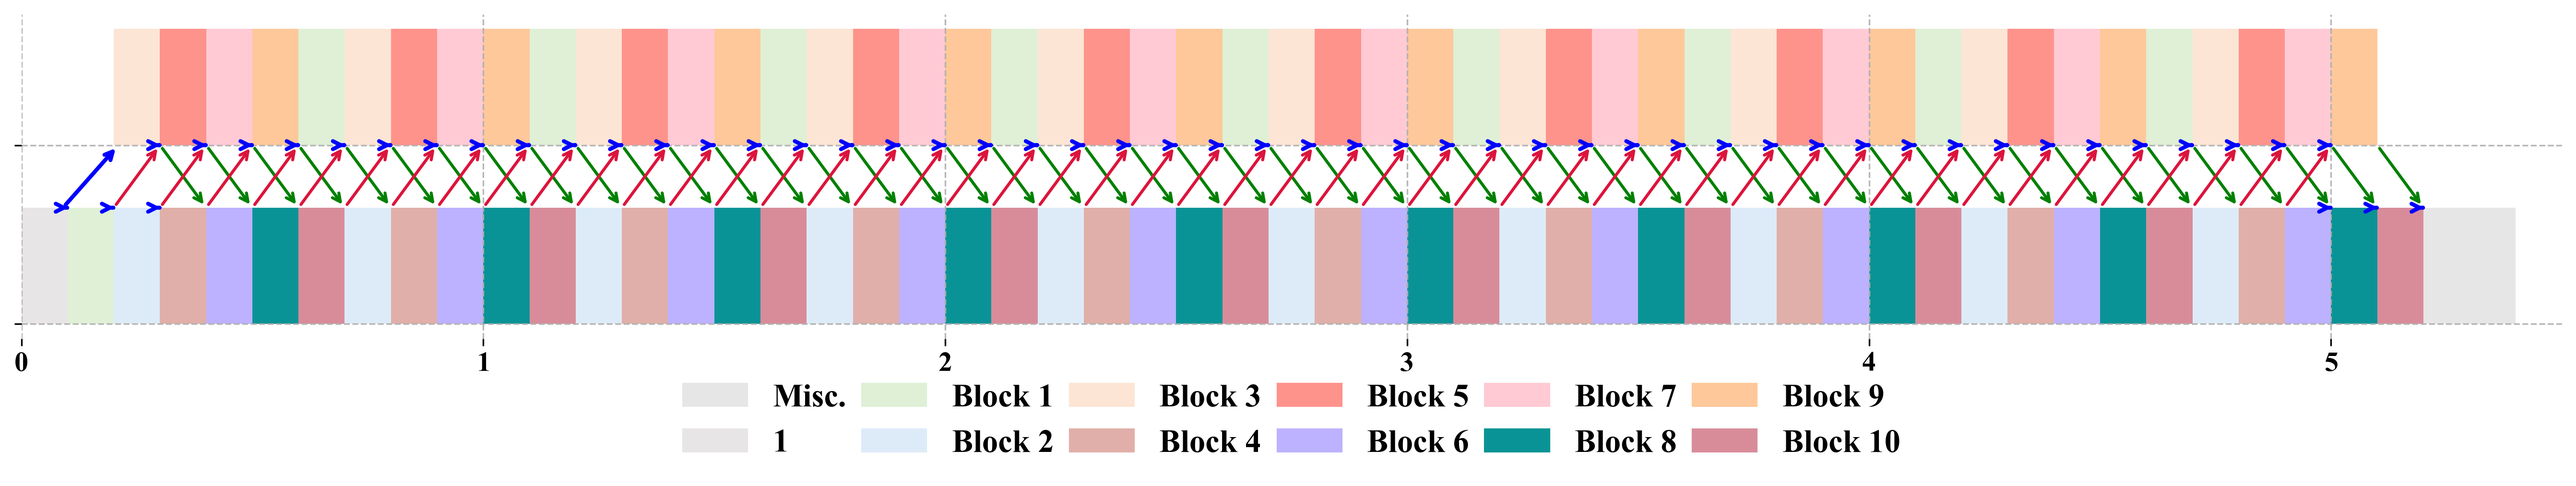
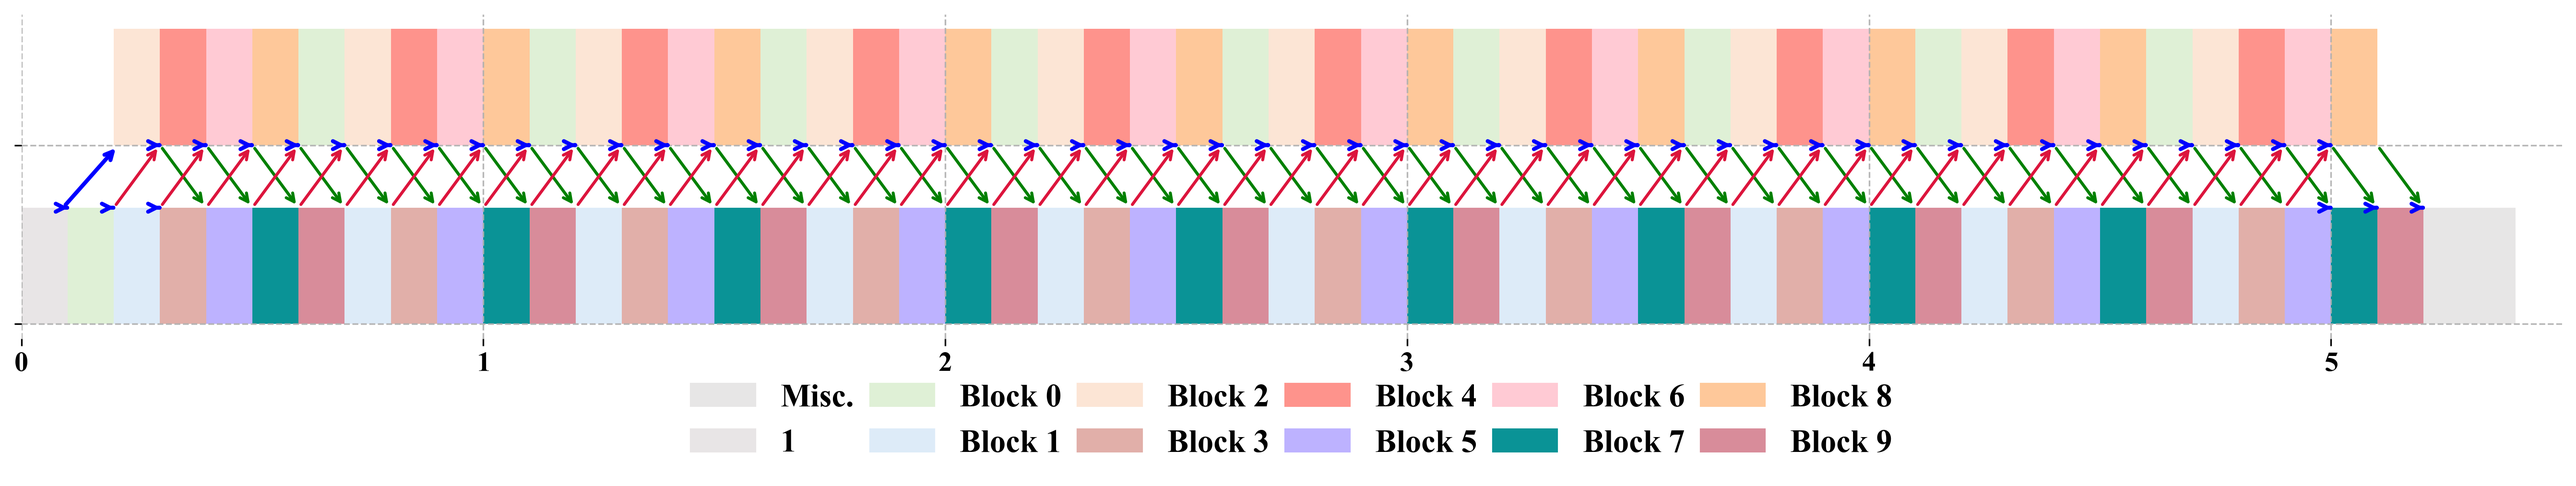
add the buffer left visualization for first task

Changed region(s): [[0.2799, 0.8875, 0.7465, 0.9487], [0.2799, 0.7957, 0.7465, 0.8569]]

diff --git a/documents/example2_scheduling_result.py b/documents/example2_scheduling_result.py
@@ -125,20 +125,20 @@ xpbd_tet_task_name_map = {
 }
 vbd_task_name_map = {
     0:"Misc.",
-    14:"Block 1",
-    15:"Block 2",
-    16:"Block 3",
-    17:"Block 4",
-    18:"Block 5",
-    19:"Block 6",
-    20:"Block 7",
-    21:"Block 8",
-    22:"Block 9",
-    23:"Block 10",
-    24:"Block 11",
-    25:"Block 12",
-    26:"Block 13",
-    27:"Block 14",
+    14:"Block 0",
+    15:"Block 1",
+    16:"Block 2",
+    17:"Block 3",
+    18:"Block 4",
+    19:"Block 5",
+    20:"Block 6",
+    21:"Block 7",
+    22:"Block 8",
+    23:"Block 9",
+    24:"Block 10",
+    25:"Block 11",
+    26:"Block 12",
+    27:"Block 13",
 }
 
 def hex_to_rgb(hex_color):
@@ -311,14 +311,14 @@ visualize_schedule3([ # Iter 10
     [(16, 3, 2, 0.200, 0.300), (18, 5, 0, 0.300, 0.400), (20, 7, 1, 0.400, 0.500), (22, 9, 3, 0.500, 0.600), (14, 11, 2, 0.600, 0.700), (16, 13, 0, 0.700, 0.800), (18, 15, 1, 0.800, 0.900), (20, 17, 3, 0.900, 1.000), (22, 19, 2, 1.000, 1.100), (14, 21, 0, 1.100, 1.200), (16, 23, 1, 1.200, 1.300), (18, 25, 3, 1.300, 1.400), (20, 27, 2, 1.400, 1.500), (22, 29, 0, 1.500, 1.600), (14, 31, 1, 1.600, 1.700), (16, 33, 3, 1.700, 1.800), (18, 35, 2, 1.800, 1.900), (20, 37, 0, 1.900, 2.000), (22, 39, 1, 2.000, 2.100), (14, 41, 3, 2.100, 2.200), (16, 43, 2, 2.200, 2.300), (18, 45, 0, 2.300, 2.400), (20, 47, 1, 2.400, 2.500), (22, 49, 3, 2.500, 2.600), (14, 51, 2, 2.600, 2.700), (16, 53, 0, 2.700, 2.800), (18, 55, 1, 2.800, 2.900), (20, 57, 3, 2.900, 3.000), (22, 59, 2, 3.000, 3.100), (14, 61, 0, 3.100, 3.200), (16, 63, 1, 3.200, 3.300), (18, 65, 3, 3.300, 3.400), (20, 67, 2, 3.400, 3.500), (22, 69, 0, 3.500, 3.600), (14, 71, 1, 3.600, 3.700), (16, 73, 3, 3.700, 3.800), (18, 75, 2, 3.800, 3.900), (20, 77, 0, 3.900, 4.000), (22, 79, 1, 4.000, 4.100), (14, 81, 3, 4.100, 4.200), (16, 83, 2, 4.200, 4.300), (18, 85, 0, 4.300, 4.400), (20, 87, 1, 4.400, 4.500), (22, 89, 3, 4.500, 4.600), (14, 91, 2, 4.600, 4.700), (16, 93, 0, 4.700, 4.800), (18, 95, 1, 4.800, 4.900), (20, 97, 3, 4.900, 5.000), (22, 99, 2, 5.000, 5.100)],
     [(0, 1, 1, 5, 0.200, 0.300), (1, 3, 0, 6, 0.300, 0.400), (0, 2, 1, 7, 0.300, 0.400), (1, 5, 0, 8, 0.400, 0.500), (0, 4, 1, 9, 0.400, 0.500), (1, 7, 0, 10, 0.500, 0.600), (0, 6, 1, 11, 0.500, 0.600), (1, 9, 0, 12, 0.600, 0.700), (0, 8, 1, 13, 0.600, 0.700), (1, 11, 0, 14, 0.700, 0.800), (0, 10, 1, 15, 0.700, 0.800), (1, 13, 0, 16, 0.800, 0.900), (0, 12, 1, 17, 0.800, 0.900), (1, 15, 0, 18, 0.900, 1.000), (0, 14, 1, 19, 0.900, 1.000), (1, 17, 0, 20, 1.000, 1.100), (0, 16, 1, 21, 1.000, 1.100), (1, 19, 0, 22, 1.100, 1.200), (0, 18, 1, 23, 1.100, 1.200), (1, 21, 0, 24, 1.200, 1.300), (0, 20, 1, 25, 1.200, 1.300), (1, 23, 0, 26, 1.300, 1.400), (0, 22, 1, 27, 1.300, 1.400), (1, 25, 0, 28, 1.400, 1.500), (0, 24, 1, 29, 1.400, 1.500), (1, 27, 0, 30, 1.500, 1.600), (0, 26, 1, 31, 1.500, 1.600), (1, 29, 0, 32, 1.600, 1.700), (0, 28, 1, 33, 1.600, 1.700), (1, 31, 0, 34, 1.700, 1.800), (0, 30, 1, 35, 1.700, 1.800), (1, 33, 0, 36, 1.800, 1.900), (0, 32, 1, 37, 1.800, 1.900), (1, 35, 0, 38, 1.900, 2.000), (0, 34, 1, 39, 1.900, 2.000), (1, 37, 0, 40, 2.000, 2.100), (0, 36, 1, 41, 2.000, 2.100), (1, 39, 0, 42, 2.100, 2.200), (0, 38, 1, 43, 2.100, 2.200), (1, 41, 0, 44, 2.200, 2.300), (0, 40, 1, 45, 2.200, 2.300), (1, 43, 0, 46, 2.300, 2.400), (0, 42, 1, 47, 2.300, 2.400), (1, 45, 0, 48, 2.400, 2.500), (0, 44, 1, 49, 2.400, 2.500), (1, 47, 0, 50, 2.500, 2.600), (0, 46, 1, 51, 2.500, 2.600), (1, 49, 0, 52, 2.600, 2.700), (0, 48, 1, 53, 2.600, 2.700), (1, 51, 0, 54, 2.700, 2.800), (0, 50, 1, 55, 2.700, 2.800), (1, 53, 0, 56, 2.800, 2.900), (0, 52, 1, 57, 2.800, 2.900), (1, 55, 0, 58, 2.900, 3.000), (0, 54, 1, 59, 2.900, 3.000), (1, 57, 0, 60, 3.000, 3.100), (0, 56, 1, 61, 3.000, 3.100), (1, 59, 0, 62, 3.100, 3.200), (0, 58, 1, 63, 3.100, 3.200), (1, 61, 0, 64, 3.200, 3.300), (0, 60, 1, 65, 3.200, 3.300), (1, 63, 0, 66, 3.300, 3.400), (0, 62, 1, 67, 3.300, 3.400), (1, 65, 0, 68, 3.400, 3.500), (0, 64, 1, 69, 3.400, 3.500), (1, 67, 0, 70, 3.500, 3.600), (0, 66, 1, 71, 3.500, 3.600), (1, 69, 0, 72, 3.600, 3.700), (0, 68, 1, 73, 3.600, 3.700), (1, 71, 0, 74, 3.700, 3.800), (0, 70, 1, 75, 3.700, 3.800), (1, 73, 0, 76, 3.800, 3.900), (0, 72, 1, 77, 3.800, 3.900), (1, 75, 0, 78, 3.900, 4.000), (0, 74, 1, 79, 3.900, 4.000), (1, 77, 0, 80, 4.000, 4.100), (0, 76, 1, 81, 4.000, 4.100), (1, 79, 0, 82, 4.100, 4.200), (0, 78, 1, 83, 4.100, 4.200), (1, 81, 0, 84, 4.200, 4.300), (0, 80, 1, 85, 4.200, 4.300), (1, 83, 0, 86, 4.300, 4.400), (0, 82, 1, 87, 4.300, 4.400), (1, 85, 0, 88, 4.400, 4.500), (0, 84, 1, 89, 4.400, 4.500), (1, 87, 0, 90, 4.500, 4.600), (0, 86, 1, 91, 4.500, 4.600), (1, 89, 0, 92, 4.600, 4.700), (0, 88, 1, 93, 4.600, 4.700), (1, 91, 0, 94, 4.700, 4.800), (0, 90, 1, 95, 4.700, 4.800), (1, 93, 0, 96, 4.800, 4.900), (0, 92, 1, 97, 4.800, 4.900), (1, 95, 0, 98, 4.900, 5.000), (0, 94, 1, 99, 4.900, 5.000), (1, 97, 0, 100, 5.000, 5.100), (1, 99, 0, 101, 5.100, 5.200), ],
     [(0, 0, 0, 1, 0.100, 0.100), (0, 1, 0, 2, 0.200, 0.200), (0, 0, 1, 3, 0.100, 0.200), (0, 2, 0, 4, 0.300, 0.300), (1, 3, 1, 5, 0.300, 0.300), (1, 5, 1, 7, 0.400, 0.400), (1, 7, 1, 9, 0.500, 0.500), (1, 9, 1, 11, 0.600, 0.600), (1, 11, 1, 13, 0.700, 0.700), (1, 13, 1, 15, 0.800, 0.800), (1, 15, 1, 17, 0.900, 0.900), (1, 17, 1, 19, 1.000, 1.000), (1, 19, 1, 21, 1.100, 1.100), (1, 21, 1, 23, 1.200, 1.200), (1, 23, 1, 25, 1.300, 1.300), (1, 25, 1, 27, 1.400, 1.400), (1, 27, 1, 29, 1.500, 1.500), (1, 29, 1, 31, 1.600, 1.600), (1, 31, 1, 33, 1.700, 1.700), (1, 33, 1, 35, 1.800, 1.800), (1, 35, 1, 37, 1.900, 1.900), (1, 37, 1, 39, 2.000, 2.000), (1, 39, 1, 41, 2.100, 2.100), (1, 41, 1, 43, 2.200, 2.200), (1, 43, 1, 45, 2.300, 2.300), (1, 45, 1, 47, 2.400, 2.400), (1, 47, 1, 49, 2.500, 2.500), (1, 49, 1, 51, 2.600, 2.600), (1, 51, 1, 53, 2.700, 2.700), (1, 53, 1, 55, 2.800, 2.800), (1, 55, 1, 57, 2.900, 2.900), (1, 57, 1, 59, 3.000, 3.000), (1, 59, 1, 61, 3.100, 3.100), (1, 61, 1, 63, 3.200, 3.200), (1, 63, 1, 65, 3.300, 3.300), (1, 65, 1, 67, 3.400, 3.400), (1, 67, 1, 69, 3.500, 3.500), (1, 69, 1, 71, 3.600, 3.600), (1, 71, 1, 73, 3.700, 3.700), (1, 73, 1, 75, 3.800, 3.800), (1, 75, 1, 77, 3.900, 3.900), (1, 77, 1, 79, 4.000, 4.000), (1, 79, 1, 81, 4.100, 4.100), (1, 81, 1, 83, 4.200, 4.200), (1, 83, 1, 85, 4.300, 4.300), (1, 85, 1, 87, 4.400, 4.400), (1, 87, 1, 89, 4.500, 4.500), (1, 89, 1, 91, 4.600, 4.600), (1, 91, 1, 93, 4.700, 4.700), (1, 93, 1, 95, 4.800, 4.800), (1, 95, 1, 97, 4.900, 4.900), (0, 96, 0, 98, 5.000, 5.000), (1, 97, 1, 99, 5.000, 5.000), (0, 98, 0, 100, 5.100, 5.100), (0, 100, 0, 101, 5.200, 5.200), ],
-
+    
 ], vbd_task_name_map, with_text=False, figure_name="iter_10_schedule")
 visualize_schedule3([ # Iter 1
-    [(0, 14, 4294967295, 0.000, 0.000), (1, 0, 4294967295, 0.000, 0.100), (0, 1, 4294967295, 0.100, 0.200), (14, 2, 0, 0.200, 0.300), (15, 3, 1, 0.300, 0.400), (17, 5, 3, 0.400, 0.500), (19, 7, 2, 0.500, 0.600), (21, 9, 0, 0.600, 0.700), (23, 11, 1, 0.700, 0.800), (0, 12, 3, 0.800, 0.900), (0, 13, 4294967295, 0.900, 1.000), (0, 15, 4294967295, 1.000, 1.000)],
-    [(16, 4, 2, 0.300, 0.400), (18, 6, 0, 0.400, 0.500), (20, 8, 1, 0.500, 0.600), (22, 10, 3, 0.600, 0.700)],
-    [(0, 2, 1, 6, 0.300, 0.400), (1, 4, 0, 7, 0.400, 0.500), (0, 3, 1, 8, 0.400, 0.500), (1, 6, 0, 9, 0.500, 0.600), (0, 5, 1, 10, 0.500, 0.600), (1, 8, 0, 11, 0.600, 0.700), (1, 10, 0, 12, 0.700, 0.800), ],
-    [(0, 2, 0, 3, 0.300, 0.300), (0, 3, 0, 5, 0.400, 0.400), (1, 4, 1, 6, 0.400, 0.400), (1, 6, 1, 8, 0.500, 0.500), (0, 7, 0, 9, 0.600, 0.600), (1, 8, 1, 10, 0.600, 0.600), (0, 9, 0, 11, 0.700, 0.700), (0, 11, 0, 12, 0.800, 0.800), ],
-
+    [(0, 13, 4294967295, 0.000, 0.000), (1, 0, 4294967295, 0.000, 0.100), (14, 1, 0, 0.100, 0.200), (15, 2, 1, 0.200, 0.300), (17, 4, 3, 0.300, 0.400), (19, 6, 2, 0.400, 0.500), (21, 8, 0, 0.500, 0.600), (23, 10, 1, 0.600, 0.700), (0, 11, 3, 0.700, 0.800), (0, 12, 4294967295, 0.800, 0.900), (0, 14, 4294967295, 0.900, 0.900)],
+    [(16, 3, 2, 0.200, 0.300), (18, 5, 0, 0.300, 0.400), (20, 7, 1, 0.400, 0.500), (22, 9, 3, 0.500, 0.600)],
+    [(0, 1, 1, 5, 0.200, 0.300), (1, 3, 0, 6, 0.300, 0.400), (0, 2, 1, 7, 0.300, 0.400), (1, 5, 0, 8, 0.400, 0.500), (0, 4, 1, 9, 0.400, 0.500), (1, 7, 0, 10, 0.500, 0.600), (1, 9, 0, 11, 0.600, 0.700), ],
+    [(0, 0, 0, 1, 0.100, 0.100), (0, 1, 0, 2, 0.200, 0.200), (0, 0, 1, 3, 0.100, 0.200), (0, 2, 0, 4, 0.300, 0.300), (1, 3, 1, 5, 0.300, 0.300), (1, 5, 1, 7, 0.400, 0.400), (0, 6, 0, 8, 0.500, 0.500), (1, 7, 1, 9, 0.500, 0.500), (0, 8, 0, 10, 0.600, 0.600), (0, 10, 0, 11, 0.700, 0.700), ],
+    
 ], vbd_task_name_map, with_text=True, figure_name="iter_1_schedule")
 
 

diff --git a/documents/example3_scheduling_result.py b/documents/example3_scheduling_result.py
@@ -103,42 +103,22 @@ article_colors = [
     '#fec89a', '#d88c9a', # Collison
     '#5e548e', '#3a5a40',  # 25
 ]
-xpbd_task_name_map = {
-    0:"Misc.",
-    14:"Stretching",
-    15:"Bending",
-    16:"Obs-Collision",
-    17:"Self-Collision",
-}
-xpbd_tet_task_name_map = {
-    0:"Misc.",
-    14:"Stress 1",
-    15:"Stress 2",
-    16:"Stress 3",
-    17:"Stress 4",
-    18:"Stress 5",
-    19:"Stress 6",
-    20:"Stress 7",
-    21:"Stress 8",
-    22:"Obs-Collision",
-    23:"Self-Collision",
-}
 vbd_task_name_map = {
     0:"Misc.",
-    14:"Block 1",
-    15:"Block 2",
-    16:"Block 3",
-    17:"Block 4",
-    18:"Block 5",
-    19:"Block 6",
-    20:"Block 7",
-    21:"Block 8",
-    22:"Block 9",
-    23:"Block 10",
-    24:"Block 11",
-    25:"Block 12",
-    26:"Block 13",
-    27:"Block 14",
+    14:"Block 0",
+    15:"Block 1",
+    16:"Block 2",
+    17:"Block 3",
+    18:"Block 4",
+    19:"Block 5",
+    20:"Block 6",
+    21:"Block 7",
+    22:"Block 8",
+    23:"Block 9",
+    24:"Block 10",
+    25:"Block 11",
+    26:"Block 12",
+    27:"Block 13",
 }
 
 def hex_to_rgb(hex_color):
@@ -303,7 +283,7 @@ visualize_schedule3([ # Iter 1
     [(0, 83, 4294967295, 0.000, 0.200), (1, 0, 4294967295, 0.210, 0.410), (14, 1, 0, 0.420, 0.620), (15, 2, 0, 0.630, 0.830), (16, 3, 0, 0.840, 1.040), (17, 4, 0, 1.050, 1.250), (18, 5, 2, 1.260, 1.460), (20, 7, 2, 1.470, 1.670), (21, 8, 2, 1.680, 1.880), (22, 9, 1, 1.890, 2.090), (23, 10, 1, 2.100, 2.300), (14, 11, 3, 2.310, 2.510), (16, 13, 3, 2.520, 2.720), (17, 14, 3, 2.730, 2.930), (18, 15, 0, 2.940, 3.140), (19, 16, 0, 3.150, 3.350), (21, 18, 4, 3.360, 3.560), (22, 19, 4, 3.570, 3.770), (23, 20, 1, 3.780, 3.980), (14, 21, 1, 3.990, 4.190), (15, 22, 1, 4.200, 4.400), (17, 24, 5, 4.410, 4.610), (18, 25, 5, 4.620, 4.820), (19, 26, 0, 4.830, 5.030), (20, 27, 0, 5.040, 5.240), (21, 28, 6, 5.250, 5.450), (23, 30, 6, 5.460, 5.660), (14, 31, 6, 5.670, 5.870), (15, 32, 1, 5.880, 6.080), (16, 33, 1, 6.090, 6.290), (17, 34, 7, 6.300, 6.500), (19, 36, 7, 6.510, 6.710), (20, 37, 7, 6.720, 6.920), (21, 38, 0, 6.930, 7.130), (22, 39, 0, 7.140, 7.340), (23, 40, 8, 7.350, 7.550), (15, 42, 8, 7.560, 7.760), (16, 43, 8, 7.770, 7.970), (17, 44, 1, 7.980, 8.180), (18, 45, 1, 8.190, 8.390), (20, 47, 9, 8.400, 8.600), (21, 48, 9, 8.610, 8.810), (22, 49, 0, 8.820, 9.020), (23, 50, 0, 9.030, 9.230), (14, 51, 10, 9.240, 9.440), (16, 53, 10, 9.450, 9.650), (17, 54, 10, 9.660, 9.860), (18, 55, 1, 9.870, 10.070), (19, 56, 1, 10.080, 10.280), (20, 57, 11, 10.290, 10.490), (22, 59, 11, 10.500, 10.700), (23, 60, 11, 10.710, 10.910), (14, 61, 0, 10.920, 11.120), (15, 62, 0, 11.130, 11.330), (16, 63, 12, 11.340, 11.540), (18, 65, 12, 11.550, 11.750), (19, 66, 12, 11.760, 11.960), (20, 67, 1, 11.970, 12.170), (21, 68, 1, 12.180, 12.380), (23, 70, 13, 12.390, 12.590), (14, 71, 13, 12.600, 12.800), (15, 72, 0, 12.810, 13.010), (16, 73, 0, 13.020, 13.220), (17, 74, 0, 13.230, 13.430), (19, 76, 0, 13.440, 13.640), (20, 77, 0, 13.650, 13.850), (21, 78, 1, 13.860, 14.060), (22, 79, 1, 14.070, 14.270), (23, 80, 1, 14.280, 14.480), (0, 81, 1, 14.490, 14.690), (0, 82, 4294967295, 14.700, 14.900), (0, 84, 4294967295, 14.910, 15.110)],
     [(0, 6, 1, 9, 1.555, 1.890), (1, 4, 0, 12, 1.250, 1.557), (0, 12, 1, 15, 2.557, 2.940), (1, 10, 0, 17, 2.300, 2.559), (0, 17, 1, 20, 3.559, 3.780), (1, 16, 0, 23, 3.350, 3.561), (0, 23, 1, 26, 4.561, 4.830), (1, 22, 0, 29, 4.400, 4.563), (0, 29, 1, 32, 5.563, 5.880), (1, 27, 0, 35, 5.240, 5.565), (0, 35, 1, 38, 6.565, 6.930), (1, 33, 0, 41, 6.290, 6.567), (0, 41, 1, 44, 7.567, 7.980), (1, 39, 0, 46, 7.340, 7.569), (0, 46, 1, 49, 8.569, 8.820), (1, 45, 0, 52, 8.390, 8.571), (0, 52, 1, 55, 9.571, 9.870), (1, 50, 0, 58, 9.230, 9.573), (0, 58, 1, 61, 10.573, 10.920), (1, 56, 0, 64, 10.280, 10.575), (0, 64, 1, 67, 11.575, 11.970), (1, 62, 0, 69, 11.330, 11.577), (0, 69, 1, 72, 12.577, 12.810), (1, 68, 0, 75, 12.380, 12.579), (0, 75, 1, 78, 13.579, 13.860), ],
     [(1, 0, 1, 1, 0.410, 0.420), (1, 4, 1, 5, 1.250, 1.260), (1, 0, 0, 6, 0.410, 0.555), (1, 8, 1, 9, 1.880, 1.890), (1, 10, 1, 11, 2.300, 2.310), (1, 14, 1, 15, 2.930, 2.940), (1, 16, 1, 18, 3.350, 3.360), (1, 19, 1, 20, 3.770, 3.780), (1, 22, 1, 24, 4.400, 4.410), (1, 25, 1, 26, 4.820, 4.830), (1, 27, 1, 28, 5.240, 5.250), (1, 31, 1, 32, 5.870, 5.880), (1, 33, 1, 34, 6.290, 6.300), (1, 37, 1, 38, 6.920, 6.930), (1, 39, 1, 40, 7.340, 7.350), (1, 43, 1, 44, 7.970, 7.980), (1, 45, 1, 47, 8.390, 8.400), (1, 48, 1, 49, 8.810, 8.820), (1, 50, 1, 51, 9.230, 9.240), (1, 54, 1, 55, 9.860, 9.870), (1, 56, 1, 57, 10.280, 10.290), (1, 60, 1, 61, 10.910, 10.920), (1, 62, 1, 63, 11.330, 11.340), (1, 66, 1, 67, 11.960, 11.970), (1, 68, 1, 70, 12.380, 12.390), (1, 71, 1, 72, 12.800, 12.810), (1, 77, 1, 78, 13.850, 13.860), ],
-
+    
 ], vbd_task_name_map, with_text=True, figure_name="")
 
 

diff --git a/examples/example3_hybrid_cpu_gpu.cpp b/examples/example3_hybrid_cpu_gpu.cpp
@@ -1861,16 +1861,12 @@ void GpuSolver::physics_step_vbd_async()
     
     SimClock scheule_clock; scheule_clock.start_clock();  
 
-    //
     // Register DAG and implementation
-    //
     {
         Launcher::Implementation ipm_xpbd_cpu(Launcher::DeviceTypeCpu, [&](const Launcher::LaunchParam& param) { cpu_solver->fn_dispatch(param); });
         Launcher::Implementation imp_xpbd_gpu(Launcher::DeviceTypeGpu, [&](const Launcher::LaunchParam& param) { this->fn_dispatch(param); }); 
 
-        //
         // Register DAG
-        //
         {
             std::vector<Launcher::Implementation> implementation_list_xpbd_cpu_and_gpu = {ipm_xpbd_cpu, imp_xpbd_gpu};
             
@@ -1931,10 +1927,8 @@ void GpuSolver::physics_step_vbd_async()
         }
     }
 
-    //
     // Init for computation matrix (Approximate value)
     // Computation matrix can be updated per frame
-    //
     static std::vector< std::vector<float> > computation_matrix; // Update each frame, to fit the dynamic costs due to collisions
     auto fn_init_compuatation_matrix = [&]()
     {
@@ -1963,9 +1957,7 @@ void GpuSolver::physics_step_vbd_async()
         computation_matrix = scheduler.computation_matrix;
     };
 
-    //
     // Set communication matrix
-    //
     {
         scheduler.communication_cost_matrix_uma = {
             {0.002, 0.220},  /// gpu wait cpu
@@ -1975,9 +1967,7 @@ void GpuSolver::physics_step_vbd_async()
         scheduler.communication_startup = {0, 0}; // First call cost
     }
 
-    //
     // Make scheduling
-    //
     if (scheduler.topological_sort()) 
     {
         scheduler.standardizing_dag();
@@ -1997,9 +1987,7 @@ void GpuSolver::physics_step_vbd_async()
     }
     scheule_clock.end_clock();
     
-    //
     // Run
-    //
     SimClock clock; clock.start_clock();
     for (uint substep = 0; substep < num_substep; substep++) // 1 or 50 ?
     {   { get_scene_params().current_substep = substep; }
@@ -2038,14 +2026,13 @@ void GpuSolver::physics_step_vbd_async()
             scheduler.launch(Launcher::Scheduler::LaunchModeFakeHetero, fn_task_to_param, false);
         }
 
-        // In this mode, you will run scheduled tasks with ASYN waiting, the actual time should close to the scheduling time (after seceral frames)
+        // In this mode, you will run scheduled tasks with ASYNC waiting, the actual time should close to the scheduling time (after seceral frames)
         // However, this mode not work (e.g., GPU being locked or the simulation result is not equal to 'LaunchModeFakeHetero')
         //                              when there are too many tasks (e.g. 40 command-buffers on the GPU)
         // This is limited to the hardware, maybe we can solve it by segmenting the commission of gpu commands
         // If you have some ideas to fix it, hope you can help me (you find my contact information in my homepage: https://chengzhuuwu.github.io/)
         else if (launch_mode == Launcher::Scheduler::LaunchModeHetero)
         {   
-            
             auto fn_task_to_param = [](const Launcher::Task& task) 
             { 
                 // task.print_with_cluster(0);

diff --git a/src/heterogeneous/launcher.cpp b/src/heterogeneous/launcher.cpp
@@ -3026,6 +3026,21 @@ void Scheduler::scheduler_dag()
             }
         }
 
+        if constexpr (false) // Print Original Connections
+        {
+            for (uint tid = 0; tid < num_tasks; tid++)
+            {
+                const auto& task = list_task[tid];
+                const auto& task_schedule = task_schedules[tid];
+                const auto& task_ins = list_in[tid];
+                const auto& task_outs = list_out[tid];
+                fast_format("Task {:2} ({}) in proc {} (form {:4.2f} to {:4.2f}), input = {}, output = {}", 
+                    tid, taskNames.at(task.func_id), 
+                    task_schedule.proc, task_schedule.start, task_schedule.end,
+                    task_ins.size(), task_outs.size());
+            }
+        }
+
     #define USE_MAIN_DEVICE true
     #define MAIN_DEVICE_ID 1
 
@@ -3242,7 +3257,7 @@ void Scheduler::scheduler_dag()
                                 else 
                                 {
                                     // First iterative task in current processor
-                                    task.buffer_left = input_buffer_mask;
+                                    task.buffer_left = Launcher::input_buffer_mask;
                                     task.task_left = predict_position_tid;
                                 }
                             }
@@ -3251,11 +3266,15 @@ void Scheduler::scheduler_dag()
                         task_buffers[tid] = selected_buffer_idx;
                         task.buffer_idx = selected_buffer_idx;
                         left_constraint_tid[min_proc] = tid;
-                        // fast_format(" Task {:2}: left = {}, input = {}, buffer = {}  ({})", 
+                        
+                        // fast_format(" Task {:2}: left = {}, input = {}, buffer = {}  ({}, cluster = {}, iter = {})", 
                         //     tid, 
                         //     task.buffer_left != -1u ? std::to_string(task.buffer_left) : "/", 
-                        //     task.buffer_in != -1u ? std::to_string(task.buffer_in) : "/", 
-                        //     selected_buffer_idx, taskNames.at(task.func_id));
+                        //     // task.buffer_in != -1u ? std::to_string(task.buffer_in) : "/", 
+                        //     !task.buffer_ins.empty() ? std::to_string(task.buffer_ins.back()) : "/", 
+                        //     selected_buffer_idx, taskNames.at(task.func_id),
+                        //     task.cluster_idx, task.iter_idx
+                        // );
                     }
                 }
             }
@@ -3265,7 +3284,6 @@ void Scheduler::scheduler_dag()
 
     set_constant_computation_time_task();
     
-
     // Check
     if (bool_use_check)
     {

diff --git a/examples/example2_async_iter.cpp b/examples/example2_async_iter.cpp
@@ -1136,9 +1136,7 @@ void CpuSolver::physics_step_vbd()
 }
 void CpuSolver::fn_dispatch(const Launcher::LaunchParam& param)
 {
-    //
     // Asynchronous iteration part
-    //
     constexpr uint max_buffer_count = 32; 
     constexpr bool print_buffer_idx = false;
     auto fn_get_iter_buffer = [&](const uint buffer_idx) -> Buffer<Float3>& 
@@ -1223,9 +1221,8 @@ void CpuSolver::fn_dispatch(const Launcher::LaunchParam& param)
         }
     };
     
-    //
     // Register Implementation
-    //
+
     // auto fn_launch = [&](const Launcher::LaunchParam& param) // Why cant i use it in lambda ???
     {
         switch (param.function_id) 
@@ -1306,9 +1303,7 @@ void CpuSolver::physics_step_vbd_async()
 
     Launcher::Scheduler scheduler;
 
-    //
     // Register DAG and implementation
-    //
     {
         Launcher::Implementation ipm_xpbd_cpu(Launcher::DeviceTypeCpu, [&](const Launcher::LaunchParam& param) { fn_dispatch(param); });
         Launcher::Implementation imp_xpbd_gpu(Launcher::DeviceTypeGpu, [&](const Launcher::LaunchParam& param) { fn_dispatch(param); }); // Actually is CPU-implementation, you can replace it to your GPU-implementation's interface
@@ -1376,9 +1371,7 @@ void CpuSolver::physics_step_vbd_async()
         }
     }
 
-    //
     // Set computation matrix
-    //
     {
         std::vector< std::pair<Launcher::FunctionID, uint> > list_task_id = { };
         std::vector< std::vector<double> > list_cost; 
@@ -1402,9 +1395,7 @@ void CpuSolver::physics_step_vbd_async()
         scheduler.profile_from(list_task_id, list_cost, cost_total);
     }
 
-    //
     // Set communication matrix
-    //
     {
         scheduler.communication_cost_matrix_uma = {
             {0.0f, 0.1f},
@@ -1414,9 +1405,7 @@ void CpuSolver::physics_step_vbd_async()
         scheduler.communication_startup = {0, 0}; // First call cost
     }
 
-    //
     // Make scheduling
-    //
     if (scheduler.topological_sort()) 
     {
         // scheduler.print_sort_by_typology();

diff --git a/src/heterogeneous/launcher.h b/src/heterogeneous/launcher.h
@@ -601,7 +601,7 @@ struct Task {
     std::vector< Implementation > list_implementation;
 
     uint buffer_left = -1u;  uint task_left = -1u;
-    uint buffer_in = -1u;    uint task_in = -1u;
+    // uint buffer_in = -1u;    uint task_in = -1u;
     uint buffer_out = -1u;   uint task_out = -1u;
     uint buffer_idx = -1u;   bool is_allocated_to_main_device = true; bool is_first_iterative_task = false;
 
@@ -656,10 +656,10 @@ struct Task {
         list_implementation(input_task.list_implementation),
 
         buffer_left(input_task.buffer_left), 
-        buffer_in(input_task.buffer_in), 
+        // buffer_in(input_task.buffer_in), 
         buffer_out(input_task.buffer_out), 
         task_left(input_task.task_left), 
-        task_in(input_task.task_in), 
+        // task_in(input_task.task_in), 
         task_out(input_task.task_out), 
         buffer_idx(input_task.buffer_idx), 
         is_allocated_to_main_device(input_task.is_allocated_to_main_device), 

diff --git a/README.md b/README.md
@@ -52,7 +52,12 @@ This example shows how do we use our heterogenous framework in a simulation appl
 
 We use Metal-shading-language for GPU implementation, so this example is only supported on MacOS.
 
-Code will be comming soon...
+Coding will be comming soon...
+
+<!-- Most of the code is tested, except for `LaunchModeHetero`, we are working hard to fix the inequal result compared to sequecial implementation.
+
+We make scheduling each frame to fit the dynamic overhead caused by collisions (Although we do not add collision in this example... might comming soooooon)  -->
+
 
 ## Dependencies
 
